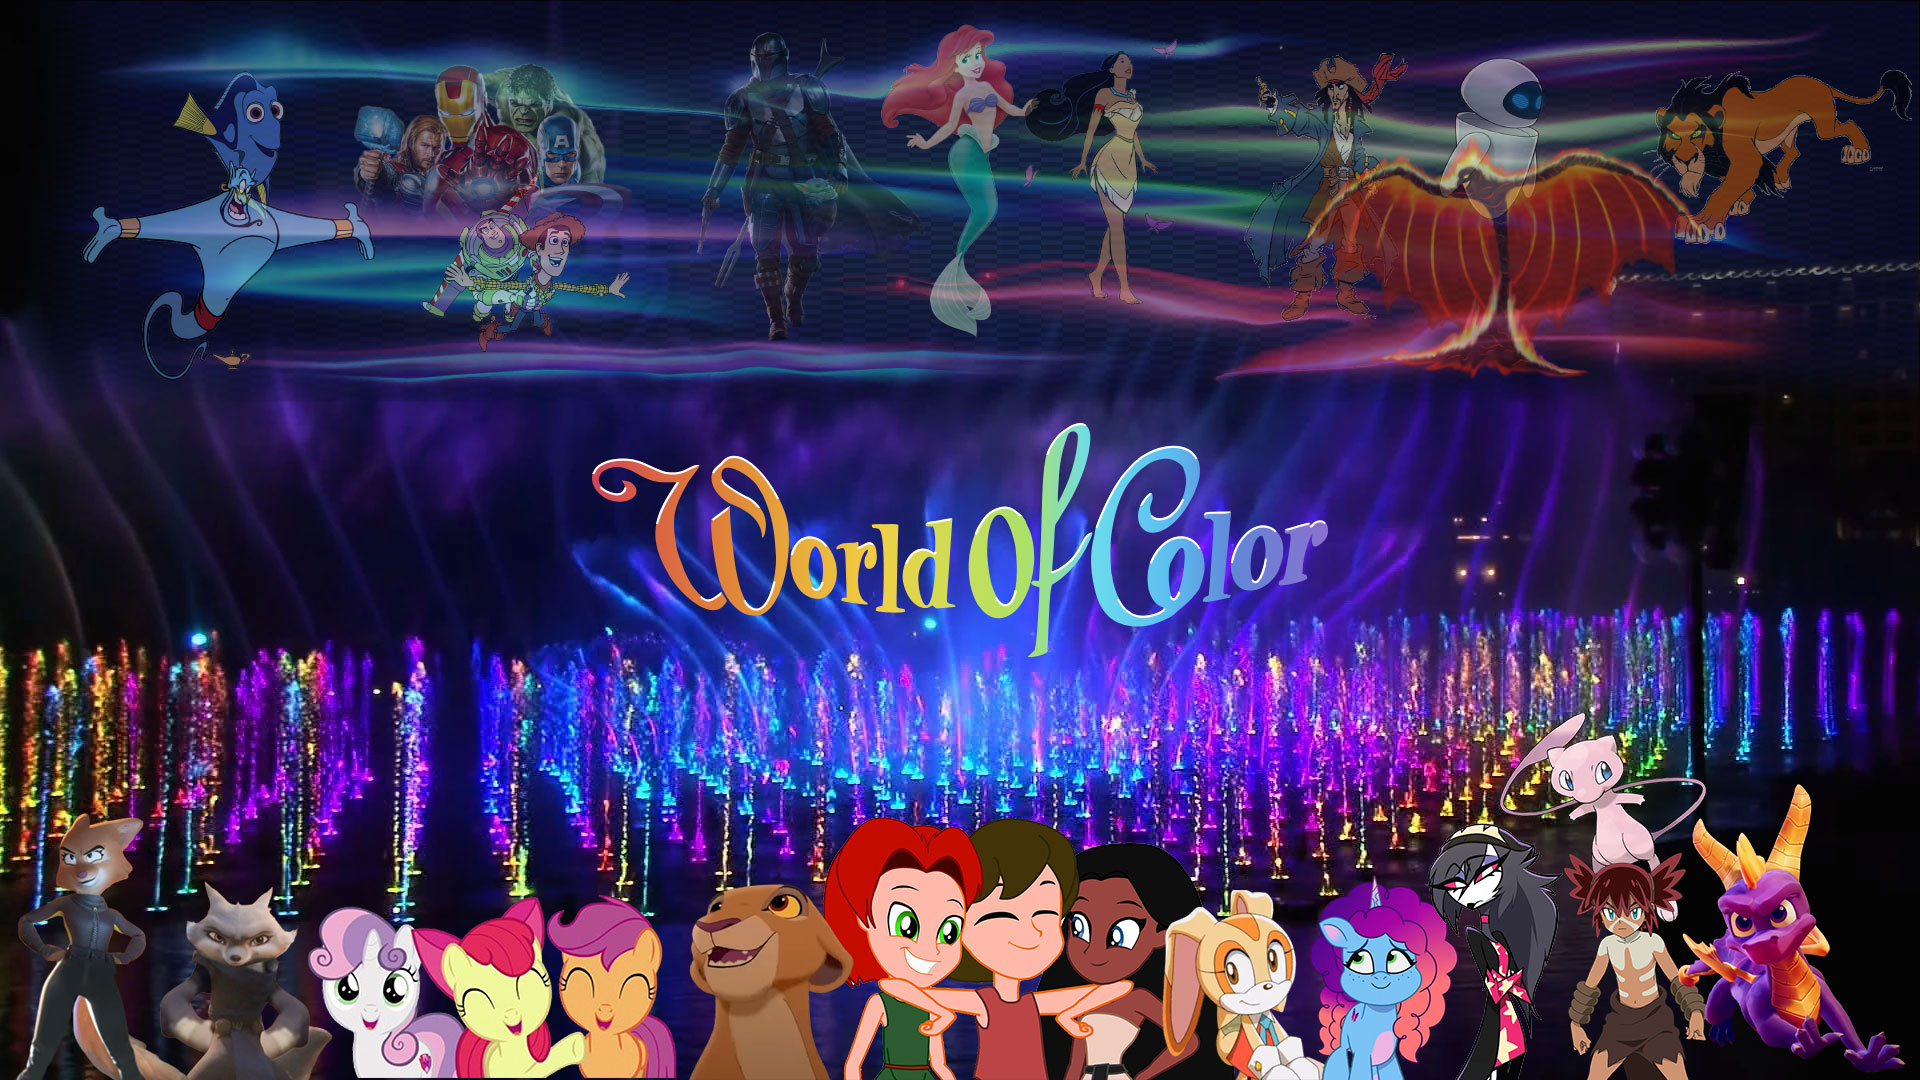
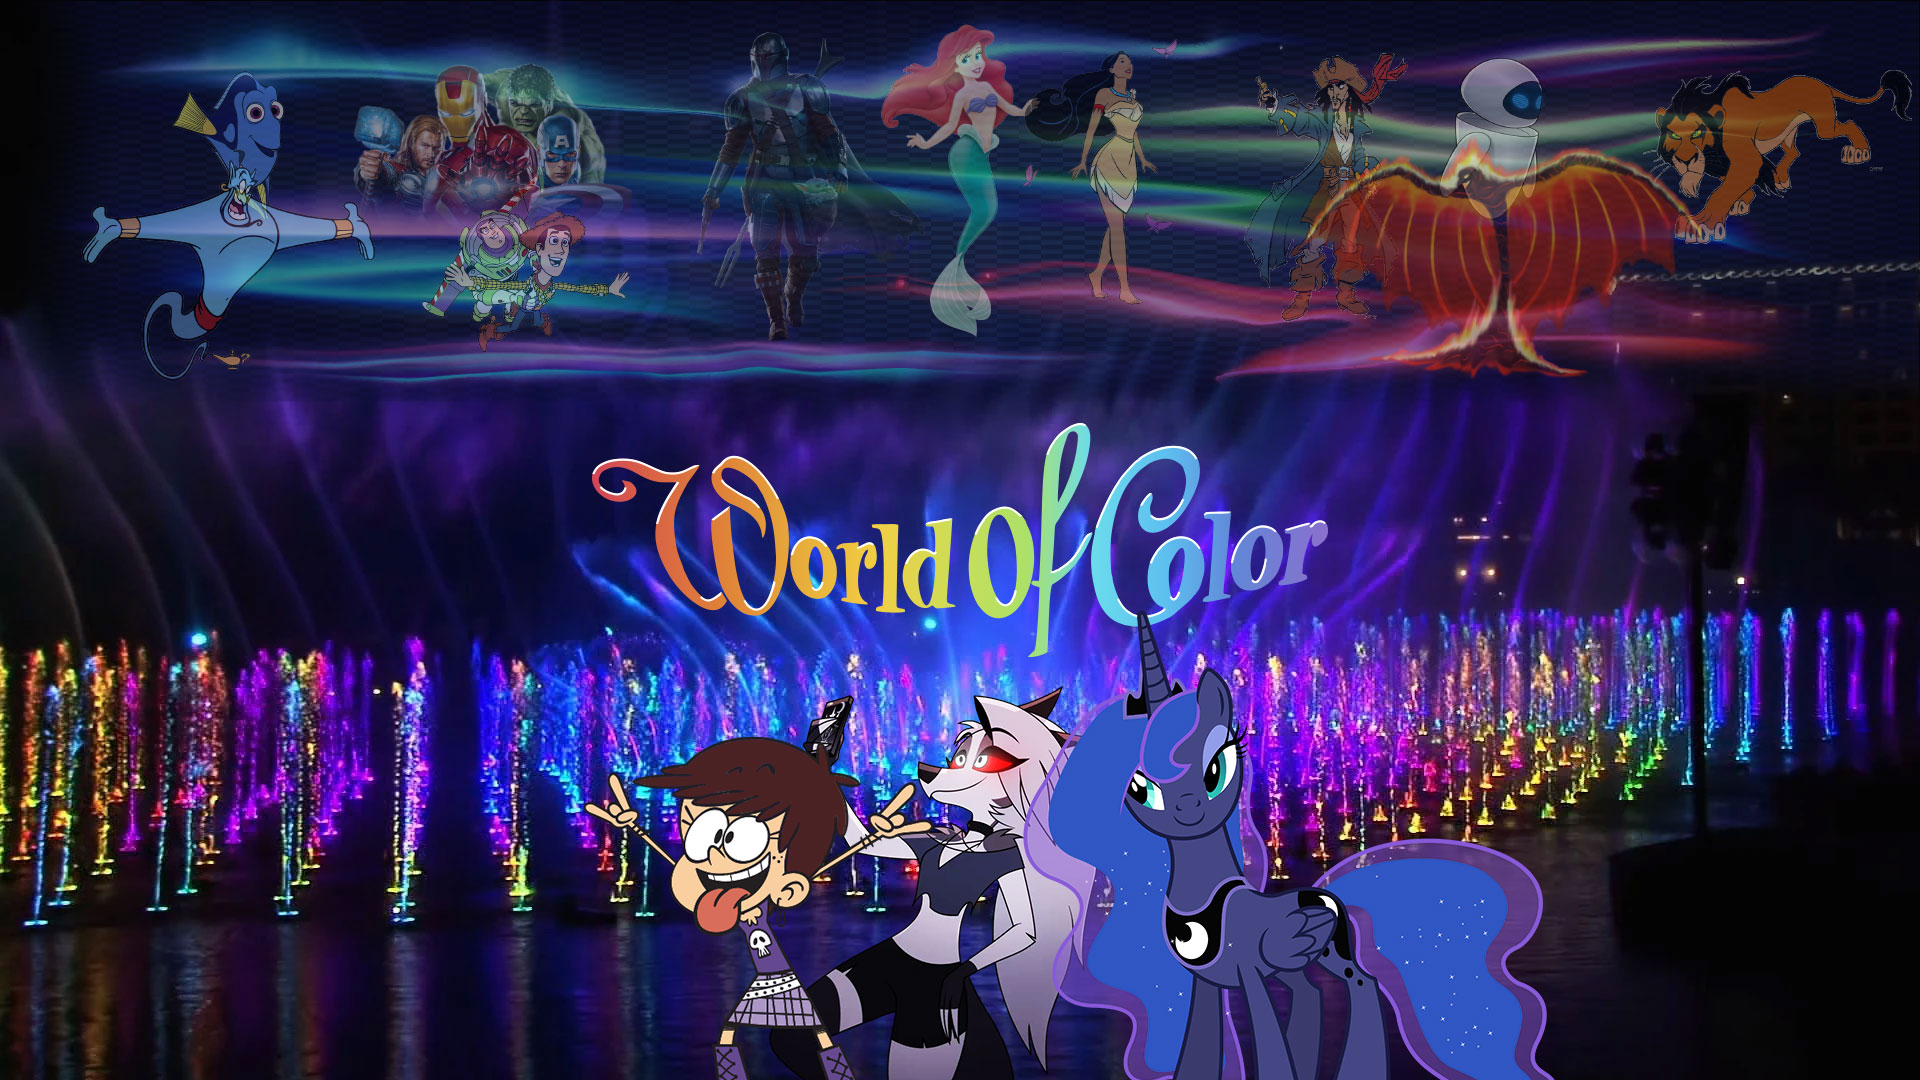
Add 'World of Color' card and image
Added a new card for 'Trio Luna in World of Color' to the HTML and included the corresponding image file.

Changed region(s): [[0.0, 0.5806, 1.0, 1.0]]

diff --git a/Once Upon a Toontopia.html b/Once Upon a Toontopia.html
@@ -30,6 +30,10 @@
           <img src="img/Disney-Villains-Revenge.jpg" alt="Disney-Villains-Revenge" />
           <h2>Disney Villains Revenge</h2>
         </article>
+          <article class="card">
+          <img src="img/World-of-Color.jpg" alt="World-of-Color" />
+          <h2>Trio Luna in World of Color</h2>
+        </article>
         <article class="card">
           <img src="img/Sorcerer-of-Magic-Kingdom.jpg" alt="Sorcerer of Magic Kingdom" />
           <h2>Sorcerer of Magic Kingdom</h2>
